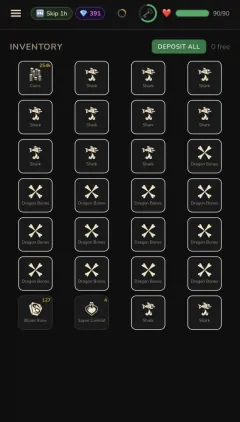
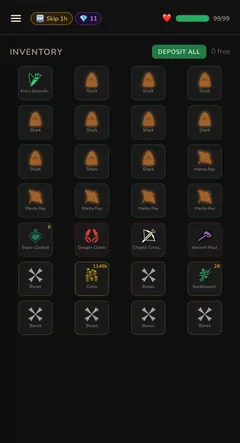
Refresh inventory and bank landing screenshots
Replace ss-inventory and ss-bank with current-UI captures, regenerate
240/360/480 webp variants, and update their dimension entries in the
mobile and desktop landing screens.

Claude-Session: https://claude.ai/code/session_01SBkwx8JWzKbywu6hePPrUi

diff --git a/src/screens/DesktopLandingScreen.jsx b/src/screens/DesktopLandingScreen.jsx
@@ -17,9 +17,9 @@ const DL_LANDING_DIMS = {
   'ss-stats':         { w: 560, h: 1068 },
   'ss-combat-select': { w: 560, h: 1070 },
   'ss-thieving':      { w: 560, h: 991  },
-  'ss-bank':          { w: 560, h: 987  },
+  'ss-bank':          { w: 560, h: 1077 },
   'ss-quests':        { w: 560, h: 990  },
-  'ss-inventory':     { w: 560, h: 985  },
+  'ss-inventory':     { w: 560, h: 1032 },
   'ss-combat':        { w: 560, h: 1082 },
   'ss-farming':       { w: 560, h: 995  },
   'ss-collection':    { w: 560, h: 1075 },
@@ -169,7 +169,7 @@ export default function DesktopLandingScreen({ onGitHubLogin, onGoogleLogin, emb
             </div>
             <div class="dl-cluster">
               <div class="dl-device dl-device--back"><img src={landingImages['ss-combat']} srcset={landingSrcSet(landingImages['ss-combat'])} sizes="202px" alt="Boss fight in progress" width="560" height="1082" loading="eager" decoding="async" /></div>
-              <div class="dl-device dl-device--back2"><img src={landingImages['ss-inventory']} srcset={landingSrcSet(landingImages['ss-inventory'])} sizes="182px" alt="Full inventory grid" width="560" height="985" loading="eager" decoding="async" /></div>
+              <div class="dl-device dl-device--back2"><img src={landingImages['ss-inventory']} srcset={landingSrcSet(landingImages['ss-inventory'])} sizes="182px" alt="Full inventory grid" width="560" height="1032" loading="eager" decoding="async" /></div>
               <div class="dl-device dl-device--main"><img src={landingImages['ss-stats']} srcset={landingSrcSet(landingImages['ss-stats'])} sizes="250px" alt="Skills overview" width="560" height="1068" loading="eager" fetchpriority="high" decoding="async" /></div>
             </div>
           </div>

diff --git a/src/screens/LandingScreen.jsx b/src/screens/LandingScreen.jsx
@@ -8,9 +8,9 @@ const LANDING_DIMS = {
   'ss-stats':         { w: 560, h: 1068 },
   'ss-combat-select': { w: 560, h: 1070 },
   'ss-thieving':      { w: 560, h: 991  },
-  'ss-bank':          { w: 560, h: 987  },
+  'ss-bank':          { w: 560, h: 1077 },
   'ss-quests':        { w: 560, h: 990  },
-  'ss-inventory':     { w: 560, h: 985  },
+  'ss-inventory':     { w: 560, h: 1032 },
   'ss-combat':        { w: 560, h: 1082 },
   'ss-farming':       { w: 560, h: 995  },
   'ss-collection':    { w: 560, h: 1075 },
